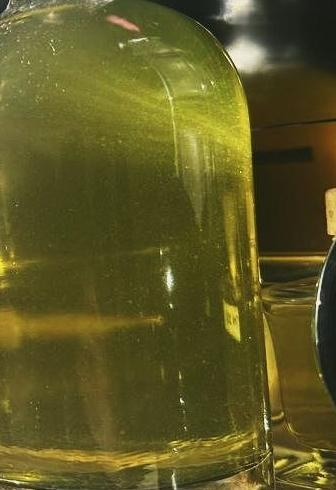
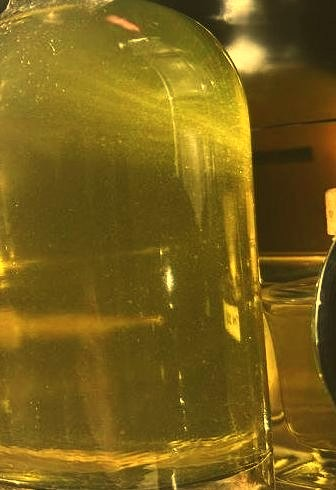
Carnet qui s'écrit, textes labo et contact, photos des essais redressées, essais alignés
Claude-Session: https://claude.ai/code/session_017Su5Zo5GRT6bLMYrdwiUzR

diff --git a/app/page.js b/app/page.js
@@ -7,6 +7,7 @@ import Preparation from './components/Preparation';
 import FriseVigne from './components/FriseVigne';
 import ContactForm from './components/ContactForm';
 import Picto from './components/Picto';
+import Carnet from './components/Carnet';
 import { site } from '../site.config';
 
 const liqueurs = [
@@ -30,7 +31,7 @@ const liqueurs = [
   },
   {
     id: 'monticello',
-    name: 'le monticello',
+    name: 'monticello',
     legal: 'liqueur de citron',
     deg: '30 % vol.',
     vol: '70 cl',
@@ -41,7 +42,7 @@ const liqueurs = [
     story: [
       "Avec l'âge, certains mots prennent des détours.",
       'Celui-ci passe par une montagne, un oiseau, un visage, puis enfin un ruisseau.',
-      'Au bout du chemin : un citron de Corse, et le sourire, légèrement enivré, de mon grand-père.',
+      'Au bout du chemin : un citron de Corse, et le sourire, légèrement enivré, du grand-père.',
     ],
     morale: 'Les mots qu’on invente sont souvent ceux qui nous ressemblent le plus.',
   },
@@ -70,7 +71,7 @@ const frise = [
   { quand: '1929', quoi: 'Naissance d’un des plus grands disciples de La Fontaine.' },
   { quand: 'puis', quoi: 'Dédé rachète la maison de sa belle-mère, à Vals ; la verveine change de mains, sans changer de terre.' },
   { quand: 'plus tard', quoi: 'En Ardèche, à Saint-Vincent, une passiflore couvre sa terrasse cinquante étés durant. C’est elle qui a inspiré l’élixir d’aujourd’hui.' },
-  { quand: '2009', quoi: 'Les ans en étant la cause, Dédé m’abandonne son jardin saison après saison, et m’apprend à sa manière : sans leçons, d’un simple regard posé sur mes gestes.' },
+  { quand: '2009', quoi: 'Les ans en étant la cause, Dédé m’abandonne son jardin saison après saison. Il m’enseigne tout de vive voix, et le répète volontiers, comme pour être sûr que rien ne se perde.' },
   { quand: '2026', quoi: 'Naissance de maison arnould.' },
 ];
 
@@ -91,7 +92,7 @@ const planches = [
         n: 'ii.',
         variants: {
           verveine: { t: 'macérer', d: "Les feuilles s'abandonnent à l'alcool, à l'abri de la lumière. Lentement, elles lui cèdent leur parfum.", img: '/images/mise-en-bouteille.jpg', alt: "Feuilles de verveine plongées dans l'alcool" },
-          citron: { t: 'macérer', d: "Les zestes s'abandonnent à l'alcool, à l'abri de la lumière. Lentement, ils lui cèdent leur or et leur parfum.", img: '/images/maceration-zestes.jpg', alt: "Zestes de citron en macération, d'un jaune profond" },
+          citron: { t: 'macérer', d: "Les zestes s'abandonnent à l'alcool, à l'abri de la lumière. Lentement, ils lui cèdent leur parfum, et cet or qu'ils avaient volé au soleil.", img: '/images/maceration-zestes.jpg', alt: "Zestes de citron en macération, d'un jaune profond" },
         },
       },
     ],
@@ -100,7 +101,7 @@ const planches = [
     num: 'II',
     titre: 'le temps de séparer',
     steps: [
-      { n: 'iii.', t: 'filtrer', d: "Le linge retient la plante et ne laisse passer que le meilleur de l'alcoolature.", img: '/images/filtrage-zoom.jpg', alt: 'La liqueur filtrée au travers du linge' },
+      { n: 'iii.', t: 'filtrer', d: "Le linge retient le marc, ce qu'il reste des feuilles et des zestes quand ils ont tout donné, et ne laisse filer que leur esprit.", img: '/images/filtrage-zoom.jpg', alt: 'La liqueur filtrée au travers du linge' },
       { n: 'iv.', t: 'soutirer', d: 'La liqueur laisse son trouble au fond de la dame-jeanne et repart, plus claire, par le tuyau.', img: '/images/soutirage.jpg', alt: 'Le tuyau de soutirage plongé dans la dame-jeanne en osier' },
     ],
   },
@@ -117,13 +118,13 @@ const planches = [
 const essais = [
   { n: '01', name: 'verveine jaune', latin: 'Aloysia citrodora', d: 'Plus douce et plus ronde, à la manière des liqueurs jaunes des monastères.', img: '/images/verveine-jaune-claire.jpg' },
   { n: '02', name: 'citron verveiné', latin: 'Citrus limon · Aloysia citrodora', d: 'Des zestes de citrons de Corse, et quelques feuilles du jardin posées par-dessus.', img: '/images/feuilles-zestes.jpg' },
-  { n: '03', name: 'verveine des ruches', latin: 'Aloysia citrodora · miel de sapin', d: 'Un miel de sapin des hauteurs de Craponne s’y glisse en secret ; la verveine en revient avec des airs de sous-bois.', img: '/images/verveine-jaune.jpg' },
+  { n: '03', name: 'verveine des ruches', latin: 'Aloysia citrodora · miel de sapin', d: 'Un miel de sapin des hauteurs de Craponne s’y glisse en secret ; la verveine en revient avec des airs de sous-bois.', img: '/images/verveine-ruches.jpg' },
 ];
 
 const carnet = [
-  { name: 'verveine-menthe', d: 'les deux plantes de la maison réunies', picto: 'verveine-menthe' },
-  { name: 'menthe pouliot', latin: 'Mentha pulegium', d: 'la menthe sauvage des prés humides', picto: 'pouliot' },
-  { name: 'ortie', latin: 'Urtica dioica', d: 'la plus mal aimée des herbes', picto: 'ortie' },
+  { name: 'verveine-menthe', picto: 'verveine-menthe', avant: 'les deux plantes de la maison ', rature: 'mélangées', fix: 'réunies', apres: '' },
+  { name: 'menthe pouliot', latin: 'Mentha pulegium', picto: 'pouliot', avant: 'la menthe sauvage des prés ', rature: 'secs', fix: 'humides', apres: '' },
+  { name: 'ortie', latin: 'Urtica dioica', picto: 'ortie', avant: 'la plus ', rature: 'mauvaise', fix: 'mal aimée', apres: ' des herbes' },
 ];
 
 const lexique = [
@@ -131,7 +132,8 @@ const lexique = [
   { w: 'monticello', p: 'mɔ̃.ti.tʃɛ.lo', g: 'n. m.', d: ['1. Liqueur de citron de la maison, à la manière du limoncello, mais à la sauce auvergnate : plus forte.', '2. Chez Dédé. Le limoncello lui-même, tel qu’il le prononçait, épris de la Corse sur ses vieux jours. D’où le rébus : mont · Titi · Che · l’eau.'] },
   { w: 'bouture', p: 'bu.tyʁ', g: 'n. f.', d: ['Fragment de plante qui, mis en terre, reprend racine et redonne la plante entière. La verveine du jardin en descend, depuis quatre générations à présent.'] },
   { w: 'macération', p: 'ma.se.ʁa.sjɔ̃', g: 'n. f.', d: ["Lent tête-à-tête entre la plante et l'alcool. À l'abri de la lumière, la feuille se dénoue et lui transmet, jour après jour, tout ce qu'elle sait de son parfum."] },
-  { w: 'alcoolature', p: 'al.kɔ.la.tyʁ', g: 'n. f.', d: ['Vieux mot d’officine : ce que l’alcool a tiré d’une plante fraîche longuement macérée. L’âme de la liqueur, avant le sucre et le temps.'] },
+  { w: 'marc', p: 'maʁ', g: 'n. m.', d: ['Ce qui reste des feuilles et des zestes quand l’alcool leur a tout pris. Le linge le retient ; la liqueur, elle, s’en va.'] },
+  { w: 'esprit', p: 'ɛs.pʁi', g: 'n. m.', d: ['Chez les alchimistes, la part subtile et volatile d’une matière, celle qu’on cherchait à capturer. On disait « esprit-de-vin » pour l’alcool.'] },
   { w: 'saints de glace', p: 'sɛ̃ d(ə) glas', g: 'n. m. pl.', d: ['Saint Mamert, saint Pancrace et saint Servais, les 11, 12 et 13 mai, réputés ramener les dernières gelées. Passés ceux-là, la verveine retourne au jardin.'] },
   { w: 'zeste', p: 'zɛst', g: 'n. m.', d: ['Fine écorce colorée des agrumes, où dorment leurs huiles parfumées. On le râpe sans jamais toucher le blanc, qui est amer.'] },
   { w: 'élixir', p: 'e.lik.siʁ', g: 'n. m.', d: ["Autrefois, breuvage d'herboriste tiré des plantes et gardé comme un trésor. Ici, la verveine de la maison, dans sa version la plus intense."] },
@@ -163,8 +165,8 @@ export default function Home() {
             <p className="hero__tagline">{site.tagline}</p>
             <p className="hero__tale">
               Il était une verveine qui refusait l'hiver.<br />
-              Chaque automne, avant les premières gelées, on la sortait de terre pour la mettre en pot, que l'on glissait ensuite dans un vieux tonneau, percé pour l'accueillir, dans l'intimité de la cave.<br />
-              L'hiver, y sentait le bois mouillé et la citronnelle des feuilles qui séchaient.<br />
+              Chaque automne, avant les premières gelées, on la sortait de terre pour la mettre en pot, que l'on glissait ensuite dans un vieux tonneau, percé pour l'accueillir, dans l'intimité d'une cave.<br />
+              L'hiver, y sentait le bois mouillé et la citronnelle, des feuilles qui séchaient.<br />
               Passés les saints de glace, on la rendait au soleil.<br />
               Quatre générations l'ont veillée tour à tour ; jamais elle n'a péri.<br />
               Dans chaque bouteille, c'est encore elle, <em className="hero__echo">que l'hiver n'a pas pris</em>.
@@ -230,7 +232,7 @@ export default function Home() {
             <p className="kicker">la préparation</p>
             <h2>à quatre <em>mains</em></h2>
             <p className="methode__intro">
-              Ici, la liqueur se fait à quatre mains : celles de ma mère et les miennes. Côte à côte, au jardin comme à la table,
+              Ici, la liqueur se fait à quatre mains : celles de ma mère et les miennes. Côte à côte, au jardin comme à l'officine,
               nos gestes se répondent sans qu'on ait besoin de se les dire.
             </p>
           </div>
@@ -244,12 +246,13 @@ export default function Home() {
               <p className="kicker kicker--light">le laboratoire</p>
               <h2>druide <em>d'aujourd'hui</em></h2>
               <p>
-                Le laboratoire est ma petite officine d'apprenti druide. L'héritage des terroirs n'a jamais cessé de m'appeler.
+                Le laboratoire est ma petite officine d'apprenti druide. Ici, au pays des volcans, les Vellaves vénéraient, dit-on, les pierres et les sources
+                bien avant qu'on y bâtisse des cathédrales. Cet héritage, volcanique et spirituel, m'habite depuis toujours.
                 J'essaie d'y retracer les plantes perdues et savoirs oubliés, de retrouver les recettes des moines et des herboristes d'antan,
-                tout ce qu'on a laissé s'assoupir. Puis je bats les talus et les lisières, et je rends leur place aux <a href="#lexique" className="renvoi">simples<sup>*</sup></a> que l'on foule sans les voir.
+                ces secrets que le temps a recouverts de mousse. Puis je bats les talus et les lisières, et je rends leur place aux <a href="#lexique" className="renvoi">simples<sup>*</sup></a> que l'on foule sans les voir.
               </p>
               <p className="simples__renvoi"><sup>*</sup> voir le lexique, plus bas.</p>
-              <p className="simples__small">Des essais en petites séries, numérotés, qui ne reviennent pas forcément l'année suivante.</p>
+              <p className="simples__small">Des essais en petites séries, numérotés ; certains ne connaîtront qu'une saison, comme les fleurs qui les ont faits.</p>
             </div>
             <figure className="simples__photo">
               <Image src="/images/maceration-bouteilles.jpg" alt="Bouteilles de verveine en macération, rangées à la cave" fill sizes="(max-width: 900px) 100vw, 460px" />
@@ -259,9 +262,9 @@ export default function Home() {
           <div className="definition">
             <p className="definition__word">les simples <span>[sɛ̃pl] <i>n. m. pl.</i></span></p>
             <p>
-              <b>1.</b> <i>Vx.</i> Du Moyen Âge au XVIII<sup>e</sup> siècle, plantes cultivées par les moines au <i>jardin des simples</i>, ainsi nommées parce qu'on les employait seules, telles que la nature les donne.<br />
+              <b>1.</b> <i>Vx.</i> Du Moyen Âge au XVIII<sup>e</sup> siècle, plantes cultivées par les moines au <i>jardin des simples</i>, ainsi nommées parce qu'on les employait seules, sans artifice ni mélange, dans leur vérité première, telles que la nature les donne.<br />
               <b>2.</b> <i>Par ext.</i> Le laboratoire de maison arnould : cuvées d'essai, en petites séries, de plantes connues depuis des siècles, cueillies par les
-              anciens puis délaissées. Oubliées des jardins, arrachées comme mauvaises herbes.
+              anciens puis délaissées. Oubliées des jardins, arrachées, prises pour de mauvaises herbes.
             </p>
           </div>
 
@@ -289,13 +292,9 @@ export default function Home() {
           </div>
           <div className="carnet__bloc">
             <p className="kicker">carnet de paillasse · formules à l'étude</p>
-            <ul className="carnet">
-              {carnet.map((c) => (
-                <li key={c.name}><Picto kind={c.picto} /><span><b>{c.name}</b>{c.latin ? <i>{c.latin}</i> : null}{c.d}</span></li>
-              ))}
-            </ul>
+            <Carnet items={carnet} />
           </div>
-          <p className="note">Le druide parle de plantes et de gestes anciens, jamais de vertus.</p>
+          <p className="note">Le druide raconte les plantes ; il ne leur prête aucun pouvoir, sinon celui de faire se souvenir.</p>
         </section>
 
         {/* ——— Lexique ——— */}
@@ -313,13 +312,14 @@ export default function Home() {
           <Medallion size={96} ink="#F4ECD6" gold="#E8C547" />
           <h2>écrire à la maison</h2>
           <p className="contact__intro">
-            Un Noël à préparer, un mariage à fêter, en bidon ou en mignonnettes, un anniversaire, ou simplement un présent qui raconte quelque chose ?
-            Écrivez-moi : je vous dirai ce que le jardin peut offrir en cette saison.
+            Un Noël à préparer, un mariage<a href="#note-mariage" className="renvoi renvoi--doux"><sup>*</sup></a> à fêter, un anniversaire,
+            ou simplement un présent qui raconte quelque chose ? Il suffit d'un mot, et je vous dirai ce que le jardin peut offrir en cette saison.
           </p>
           <p className="contact__intro">
-            Ma porte est aussi ouverte à une collaboration, une idée de liqueur, une plante oubliée à me souffler
-            ou un bon livre sur les druides. Pour la recette de la potion magique, en revanche, il faudra repasser.
+            La porte de l'officine reste aussi entrouverte à qui voudrait cheminer un peu avec moi : une collaboration à imaginer,
+            une liqueur à rêver, une plante oubliée à me souffler, ou quelque vieux grimoire à me faire découvrir.
           </p>
+          <p id="note-mariage" className="contact__note"><sup>*</sup> en bidon ou en mignonnettes</p>
           <ContactForm endpoint={site.formEndpoint} />
           {site.email ? <p className="contact__alt">ou directement : <a href={`mailto:${site.email}`}>{site.email}</a></p> : null}
           <p className="contact__alt">{site.instagram ? <a href={site.instagram}>instagram · maison.arnould</a> : 'Instagram : bientôt.'}</p>

diff --git a/app/globals.css b/app/globals.css
@@ -617,3 +617,39 @@ html[data-age='ok'] .agegate { display: none; }
 @media (max-width: 900px) { .carnet__bloc .carnet { grid-template-columns: 1fr; gap: 20px; } }
 .simples > .note { max-width: var(--max); margin-left: auto; margin-right: auto; padding-left: clamp(16px, 4vw, 48px); padding-right: clamp(16px, 4vw, 48px); box-sizing: border-box; }
 .carnet__bloc { padding-top: 0; }
+
+/* ——— V9 ——— */
+/* essais : blocs de hauteur égale, nom latin sur sa propre ligne */
+.essai { min-height: 132px; align-items: center; }
+.essai__name i { display: block; font-size: 15px; line-height: 1.3; margin-top: 2px; }
+.essai__text p:last-child { margin-top: 6px; }
+
+/* carnet qui s'écrit */
+.carnet .picto * { stroke-dasharray: 220; stroke-dashoffset: 220; }
+.carnet .picto rect { stroke-dasharray: none; stroke-dashoffset: 0; }
+.carnet .carnet__encre { clip-path: inset(0 100% 0 0); }
+.carnet s { text-decoration: none; position: relative; color: inherit; }
+.carnet s::after { content: ''; position: absolute; left: -2px; right: -2px; top: 55%; height: 1.5px; background: var(--citron); transform: scaleX(0); transform-origin: left; transform: scaleX(0) rotate(-3deg); }
+.carnet__rature { position: relative; display: inline-block; margin-right: 4px; }
+.carnet__main { position: absolute; left: 0; bottom: 70%; white-space: nowrap; font-family: 'La Belle Aurore', cursive; font-size: 22px; color: var(--citron); opacity: 0; transform: translateY(4px) rotate(-4deg); }
+.carnet__bloc .carnet li { padding-top: 14px; }
+.carnet.is-ecrit .picto * { animation: trace 1.6s ease forwards; animation-delay: calc(var(--i) * 1.1s); }
+.carnet.is-ecrit .carnet__encre { animation: encre 1.4s steps(28) forwards; animation-delay: calc(var(--i) * 1.1s + 0.4s); }
+.carnet.is-ecrit s::after { animation: rature 0.35s ease-out forwards; animation-delay: calc(var(--i) * 1.1s + 1.9s); }
+.carnet.is-ecrit .carnet__main { animation: main 0.6s ease-out forwards; animation-delay: calc(var(--i) * 1.1s + 2.2s); }
+@keyframes trace { to { stroke-dashoffset: 0; } }
+@keyframes encre { to { clip-path: inset(0 0 0 0); } }
+@keyframes rature { to { transform: scaleX(1) rotate(-3deg); } }
+@keyframes main { to { opacity: 1; transform: translateY(0) rotate(-4deg); } }
+@media (prefers-reduced-motion: reduce) {
+  .carnet .picto * { stroke-dashoffset: 0; animation: none !important; }
+  .carnet .carnet__encre { clip-path: none; animation: none !important; }
+  .carnet s::after { transform: scaleX(1) rotate(-3deg); animation: none !important; }
+  .carnet__main { opacity: 1; animation: none !important; }
+}
+
+.renvoi--doux { border-bottom: 0; }
+.contact__note { font-size: 13px; font-style: italic; color: #A9AE8C !important; margin-top: -4px; }
+.carnet__bloc .carnet span.carnet__d, .carnet__bloc .carnet span.carnet__rature, .carnet__bloc .carnet span.carnet__main { display: inline; flex-direction: initial; }
+.carnet__bloc .carnet span.carnet__rature { display: inline; margin-right: 0; }
+.carnet__bloc .carnet span.carnet__main { display: inline-block; position: static; margin-left: 8px; font-size: 23px; line-height: 1; vertical-align: -2px; }

diff --git a/app/components/Carnet.js b/app/components/Carnet.js
@@ -1,0 +1,53 @@
+'use client';
+
+import { useEffect, useRef, useState } from 'react';
+import Picto from './Picto';
+
+// Carnet de paillasse : quand on arrive dessus, il « s'écrit » — le dessin se trace,
+// la ligne s'encre de gauche à droite, un mot est raturé puis corrigé à la main.
+export default function Carnet({ items }) {
+  const ref = useRef(null);
+  const [ecrit, setEcrit] = useState(false);
+
+  useEffect(() => {
+    const el = ref.current;
+    if (!el) return;
+    if (!('IntersectionObserver' in window) || window.matchMedia('(prefers-reduced-motion: reduce)').matches) {
+      setEcrit(true);
+      return;
+    }
+    const io = new IntersectionObserver(
+      (entries) => {
+        if (entries.some((e) => e.isIntersecting)) {
+          setEcrit(true);
+          io.disconnect();
+        }
+      },
+      { threshold: 0.4 }
+    );
+    io.observe(el);
+    return () => io.disconnect();
+  }, []);
+
+  return (
+    <ul ref={ref} className={`carnet${ecrit ? ' is-ecrit' : ''}`}>
+      {items.map((c, i) => (
+        <li key={c.name} style={{ '--i': i }}>
+          <Picto kind={c.picto} />
+          <span className="carnet__encre">
+            <b>{c.name}</b>
+            {c.latin ? <i>{c.latin}</i> : null}
+            <span className="carnet__d">
+              {c.avant}
+              <span className="carnet__rature">
+                <s>{c.rature}</s>
+                <span className="carnet__main">{c.fix}</span>
+              </span>
+              {c.apres}
+            </span>
+          </span>
+        </li>
+      ))}
+    </ul>
+  );
+}

diff --git a/app/components/ContactForm.js b/app/components/ContactForm.js
@@ -10,7 +10,7 @@ const OCCASIONS = [
   'une collaboration',
   'une idée de liqueur',
   'une plante oubliée à souffler',
-  'un livre sur les druides à conseiller',
+  'un grimoire à me faire découvrir',
   'la recette de la potion magique',
   'autre chose',
 ];
@@ -65,8 +65,8 @@ export default function ContactForm({ endpoint }) {
         </select>
       </label>
       <label>
-        <span>votre message</span>
-        <textarea name="message" rows={5} required placeholder="La date, le nombre de convives ou de bouteilles, la liqueur qui vous tente…" />
+        <span>votre mot</span>
+        <textarea name="message" rows={5} required placeholder="Racontez-moi l’occasion, la saison, la liqueur qui vous fait de l’œil… le reste, on le trouvera ensemble." />
       </label>
       <input type="text" name="_gotcha" tabIndex={-1} autoComplete="off" className="form__hp" aria-hidden="true" />
       <p className="form__rgpd">Vos coordonnées servent uniquement à vous répondre. Elles ne sont ni conservées au-delà, ni transmises.</p>

diff --git a/app/layout.js b/app/layout.js
@@ -5,6 +5,7 @@ import '@fontsource/eb-garamond/400.css';
 import '@fontsource/eb-garamond/400-italic.css';
 import '@fontsource/eb-garamond/500.css';
 import '@fontsource/courier-prime/400.css';
+import '@fontsource/la-belle-aurore/400.css';
 import './globals.css';
 import AgeGate from './components/AgeGate';
 import { site } from '../site.config';
